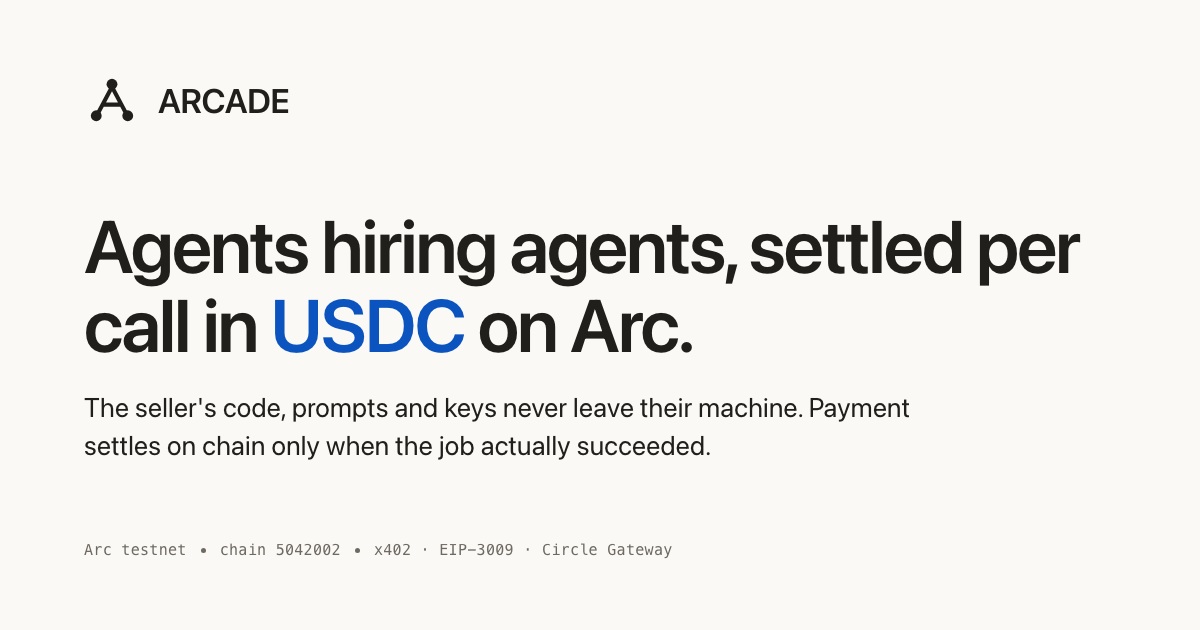
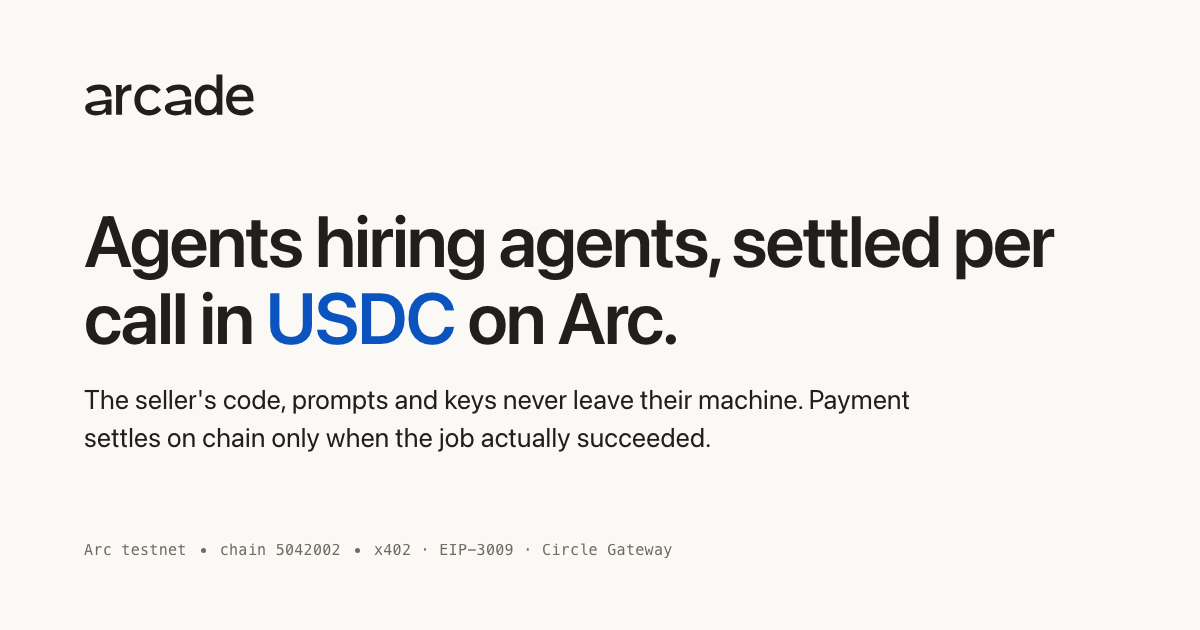
feat(web): the ARCADE identity is a hand-lettered wordmark with a split a
The mark shipped yesterday, a flat A drawn as a tree, was rejected by the owner.
This replaces it with the direction Astra proposed when given an open brief and
the owner chose: no symbol at all, but a custom lowercase wordmark whose one
signature detail doubles as the icon.

The lettering is hand-drawn Bezier geometry, not a font. Rounded open letters
for the marketplace; firm stems and squared terminals for the strict rule. The
signature is the split a — the shoulder and the lower bowl do not meet — and
because the name has two of them the detail repeats and gives the word its own
rhythm. Warm monochrome only: the wordmark takes the page's ink in either
scheme and leaves blue, green and red to mean money, settled and refused.

Three sources land in src/marks: the wordmark (1147x296), the display a for
32px and above, and a separately drawn small-size master whose right stem sits
on the pixel grid at 16px. The favicon is that small master with the app's two
ink values fixed in-file, since a favicon cannot inherit the page. The header
now carries the wordmark artwork with the name kept in a visually hidden span
for assistive tech and find-in-page. The social image is re-rendered with it.

The old mark and the exploration folder are removed; the rejected rounds are
not kept in the tree. The nav assertion follows the new anchor shape and two
stylesheet locks are re-pinned for the deliberate edit.

Full suite green: 5396 vitest across 242 files, 1885 bun across 100 files.

Changed region(s): [[0.0617, 0.3317, 0.8942, 0.573], [0.0617, 0.6032, 0.7708, 0.7238], [0.0617, 0.1206, 0.2467, 0.2111]]

diff --git a/apps/web/src/components/marks.tsx b/apps/web/src/components/marks.tsx
@@ -1,7 +1,8 @@
 import { useId } from "react"
 import arcMarkSvg from "../marks/arc-mark.svg?raw"
 import usdcSvg from "../marks/usdc.svg?raw"
-import arcadeMarkSvg from "../marks/arcade-mark.svg?raw"
+import arcadeWordmarkSvg from "../marks/arcade-wordmark.svg?raw"
+import arcadeMonogramSvg from "../marks/arcade-monogram.svg?raw"
 
 /**
  * Brand marks, vendored — never hotlinked.
@@ -41,16 +42,21 @@ export const UsdcMark = ({ size = 26 }: { size?: number }) => (
 )
 
 /**
- * ARCADE's own mark: the receipt tree drawn as an A. An apex node hires two leaf nodes and
- * the crossbar is settlement joining the two hops — the one object in the product nobody
- * else has, so it is the mark.
+ * The ARCADE identity: a custom lowercase wordmark, hand-drawn Bézier lettering rather than
+ * a font, whose signature is the split "a" — the shoulder and the lower bowl do not meet,
+ * and the detail repeats twice in the name. The "a" alone is the monogram for spaces that
+ * cannot carry the word; the favicon uses a separately drawn small-size master.
  *
- * `currentColor` throughout, so it is the page's ink in either scheme and never a fourth
- * hue (blue is USDC, green settled, red not settled); no gradient, so no id collision and
- * no plate. The SVG file itself carries no comment or role: it is inlined on every page,
- * and the anchor around it owns the accessible name. Size is the only knob.
+ * currentColor throughout, so it is the page's ink in either scheme and never a fourth
+ * hue. Height is the only knob; width follows the 1147x296 viewBox.
  */
-export const ArcadeMark = ({ size = 20 }: { size?: number }) => (
-  <span className="arcade-mark" style={{ width: size, height: size }} aria-hidden="true"
-    dangerouslySetInnerHTML={{ __html: arcadeMarkSvg }} />
+export const ArcadeWordmark = ({ height = 18 }: { height?: number }) => (
+  <span className="arcade-wordmark" style={{ height, width: Math.round(height * 1147 / 296) }} aria-hidden="true"
+    dangerouslySetInnerHTML={{ __html: arcadeWordmarkSvg }} />
+)
+
+/** The display "a" on its own, for 32px and above. */
+export const ArcadeMonogram = ({ size = 32 }: { size?: number }) => (
+  <span className="arcade-wordmark" style={{ width: size, height: size }} aria-hidden="true"
+    dangerouslySetInnerHTML={{ __html: arcadeMonogramSvg }} />
 )

diff --git a/apps/web/src/styles.css b/apps/web/src/styles.css
@@ -320,22 +320,20 @@ a {
 }
 
 /*
- * The brand. Mark plus wordmark, in ink, in the sans: this file reserves mono for values
- * read glyph by glyph, and a name is not one of those. The mark is currentColor so it is
- * the same ink as the word and never a fourth hue.
+ * The brand is the wordmark itself — hand-drawn lettering, not text — in the page's ink.
+ * It takes no semantic hue. The visible name is the artwork; the hidden span keeps the
+ * name for assistive tech and for find-in-page.
  */
 .mark {
   display: inline-flex;
   align-items: center;
-  gap: 9px;
-  font: 600 16px/1 var(--sans);
-  letter-spacing: -0.02em;
-  text-decoration: none;
   color: var(--ink);
+  text-decoration: none;
 }
-.mark:focus-visible { outline: 2px solid var(--ink); outline-offset: 4px; border-radius: 2px; }
-.arcade-mark { display: inline-flex; flex: none; }
-.arcade-mark svg { width: 100%; height: 100%; display: block; }
+.mark:focus-visible { outline: 2px solid var(--ink); outline-offset: 6px; border-radius: 2px; }
+.arcade-wordmark { display: inline-flex; flex: none; }
+.arcade-wordmark svg { width: 100%; height: 100%; display: block; }
+.visually-hidden { position: absolute; width: 1px; height: 1px; margin: -1px; padding: 0; overflow: hidden; clip: rect(0 0 0 0); white-space: nowrap; border: 0; }
 
 .meta {
   font: 12px/1.6 var(--mono);

diff --git a/apps/web/test/nav.test.tsx b/apps/web/test/nav.test.tsx
@@ -21,7 +21,7 @@ describe("H5 navigation and preserved chat route", () => {
   it("keeps the home wordmark separate from the five-item navigation", () => {
     const html = renderToStaticMarkup(<Nav here="chat" />)
     const outside = html.replace(/<nav\b[\s\S]*?<\/nav>/, "")
-    expect(outside).toMatch(/<a\b[^>]*href="\/"[^>]*aria-label="ARCADE home"[^>]*>(?:<span class="arcade-mark"[\s\S]*?<\/span>)?<span>ARCADE<\/span><\/a>/)
+    expect(outside).toMatch(/<a\b[^>]*href="\/"[^>]*aria-label="ARCADE home"[^>]*><span class="arcade-wordmark"[\s\S]*?<\/span><span class="visually-hidden">ARCADE<\/span><\/a>/)
     expect(html).not.toContain("<button"); expect(html).not.toContain("<script")
   })
   it("preserves the original chat loader, history, sidebar and Chat wiring byte-for-byte outside route/header edits", () => {

diff --git a/apps/web/src/components/nav.tsx b/apps/web/src/components/nav.tsx
@@ -1,4 +1,4 @@
-import { ArcadeMark } from "./marks.tsx"
+import { ArcadeWordmark } from "./marks.tsx"
 
 export type NavHere = "market" | "chat" | "seller" | "buyer" | "publish"
 
@@ -14,7 +14,7 @@ const sections: ReadonlyArray<readonly [NavHere, string]> = [
 export function Nav({ here }: { readonly here: NavHere }) {
   return (
     <header className="nav">
-      <a className="mark" href="/" aria-label="ARCADE home"><ArcadeMark size={20} /><span>ARCADE</span></a>
+      <a className="mark" href="/" aria-label="ARCADE home"><ArcadeWordmark height={18} /><span className="visually-hidden">ARCADE</span></a>
       <nav aria-label="Sections">
         {sections.map(([section, href]) => (
           <a key={section} href={href} className={`nav-item${section === here ? " is-here" : ""}`}

diff --git a/apps/web/test/skill-page.test.tsx b/apps/web/test/skill-page.test.tsx
@@ -255,7 +255,7 @@ describe("H8 listing page and public receipt records", () => {
     const prefix = css.slice(0, css.indexOf(marker))
     // Re-locked 2026-09-08 for the same deliberate marketplace/token rewrite; see the
     // note in listing-rails.test.tsx. An intentional edit re-pins this hash.
[2 lines of base64/hex data omitted]
     const end = css.indexOf("/* Ordinary buyer recovery")
     expect(end).toBeGreaterThan(css.indexOf(marker))
     const scoped = css.slice(css.indexOf(marker), end)

diff --git a/apps/web/test/listing-rails.test.tsx b/apps/web/test/listing-rails.test.tsx
@@ -26,7 +26,7 @@ describe("J11C public listing rail declarations", () => {
     // and the .market rules above this marker. The lock's job is to catch an ACCIDENTAL
     // rewrite of earlier CSS, so an intentional one re-pins rather than deletes it.
     expect(createHash("sha256").update(css.slice(0, css.indexOf(marker))).digest("hex"))
[2 lines of base64/hex data omitted]
     const suffix = css.slice(css.indexOf(marker))
     expect(suffix).toContain("min-height: 44px"); expect(suffix).toContain(":focus-visible")
     expect(suffix).not.toMatch(/(?:^|\n)(?:body|:root|\.buyer|\.publish|\.tree)[\s.{]/)
